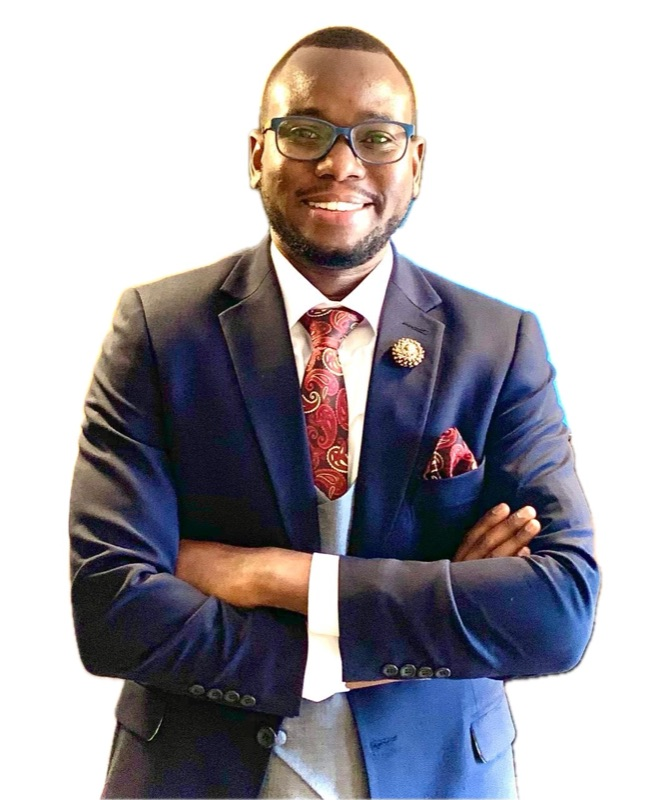
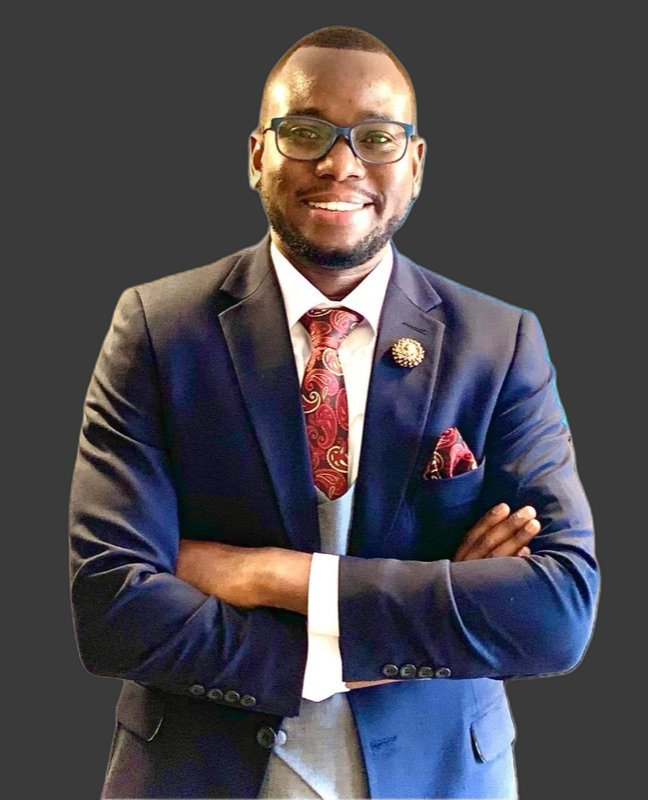
feat: Remove 2 hero clips, unify team photo backgrounds, add horizontal timeline
- Remove chris-philomera and rayner-racheal clips from hero carousel (3 clips remain)
- Replace light backgrounds on Philip, Benjamin, Lamuel headshots with dark charcoal
  to match Lilian and Adonia's professional studio look (AI background removal via rembg)
- Convert "How We Work" bullets into horizontal timeline with connecting line, animated
  nodes, content cards, and chevron arrows (desktop); vertical timeline on mobile

diff --git a/src/app/about/page.tsx b/src/app/about/page.tsx
@@ -321,10 +321,10 @@ export default function AboutPage() {
         </div>
       </section>
 
-      {/* How We Work Section */}
-      <section className="py-20 md:py-28 bg-white">
+      {/* How We Work — Horizontal Timeline */}
+      <section className="py-20 md:py-28 bg-white overflow-hidden">
         <div className="mx-auto max-w-7xl px-4 sm:px-6 lg:px-8">
-          <div className="text-center mb-14">
+          <div className="text-center mb-16">
             <span className="inline-block text-accent-dark font-heading text-sm font-semibold tracking-widest uppercase mb-3">
               The Recipe for Our Charm
             </span>
@@ -336,25 +336,70 @@ export default function AboutPage() {
               executed to perfection.
             </p>
           </div>
-          <div className="grid grid-cols-1 md:grid-cols-5 gap-6 lg:gap-4">
-            {processSteps.map((item, index) => (
-              <div key={item.step} className="relative text-center group">
-                {/* Step number circle */}
-                <div className="mx-auto mb-4 flex h-14 w-14 items-center justify-center rounded-full bg-accent-dark text-white font-heading text-lg font-bold shadow-md group-hover:scale-110 transition-transform duration-300">
-                  {item.step}
+
+          {/* Desktop horizontal timeline */}
+          <div className="hidden md:block relative">
+            {/* Continuous connecting line */}
+            <div className="absolute top-8 left-[10%] right-[10%] h-px bg-gradient-to-r from-accent/0 via-accent/40 to-accent/0" />
+
+            <div className="grid grid-cols-5 gap-4 lg:gap-6">
+              {processSteps.map((item, index) => (
+                <div key={item.step} className="relative text-center group">
+                  {/* Timeline node */}
+                  <div className="relative mx-auto mb-8">
+                    {/* Outer ring pulse on hover */}
+                    <div className="absolute inset-0 mx-auto h-16 w-16 rounded-full bg-accent/20 group-hover:scale-150 group-hover:opacity-0 transition-all duration-700" />
+                    {/* Step circle */}
+                    <div className="relative mx-auto flex h-16 w-16 items-center justify-center rounded-full bg-accent-dark text-white font-heading text-lg font-bold shadow-lg group-hover:bg-primary transition-colors duration-300 ring-4 ring-white">
+                      {item.step}
+                    </div>
+                  </div>
+                  {/* Content card */}
+                  <div className="rounded-xl bg-cream p-5 group-hover:bg-cream-dark group-hover:shadow-md transition-all duration-300">
+                    <h3 className="font-heading text-base font-bold text-dark mb-2">
+                      {item.title}
+                    </h3>
+                    <p className="text-muted text-sm leading-relaxed">
+                      {item.description}
+                    </p>
+                  </div>
+                  {/* Decorative arrow between steps */}
+                  {index < processSteps.length - 1 && (
+                    <div className="absolute top-[30px] right-0 translate-x-1/2 z-10 text-accent/40">
+                      <svg width="12" height="12" viewBox="0 0 12 12" fill="currentColor" aria-hidden="true">
+                        <path d="M2 1l5 5-5 5" stroke="currentColor" strokeWidth="2" fill="none" strokeLinecap="round" strokeLinejoin="round" />
+                      </svg>
+                    </div>
+                  )}
                 </div>
-                {/* Connector line (hidden on last item and mobile) */}
-                {index < processSteps.length - 1 && (
-                  <div className="hidden md:block absolute top-7 left-[calc(50%+28px)] w-[calc(100%-56px)] h-px bg-accent/30" />
-                )}
-                <h3 className="font-heading text-base font-bold text-dark mb-2">
-                  {item.title}
-                </h3>
-                <p className="text-muted text-sm leading-relaxed">
-                  {item.description}
-                </p>
-              </div>
-            ))}
+              ))}
+            </div>
+          </div>
+
+          {/* Mobile vertical timeline */}
+          <div className="md:hidden relative pl-8">
+            {/* Vertical line */}
+            <div className="absolute left-[15px] top-0 bottom-0 w-px bg-gradient-to-b from-accent/40 via-accent/20 to-accent/40" />
+
+            <div className="space-y-10">
+              {processSteps.map((item) => (
+                <div key={item.step} className="relative">
+                  {/* Timeline dot */}
+                  <div className="absolute -left-8 top-0 flex h-8 w-8 items-center justify-center rounded-full bg-accent-dark text-white font-heading text-xs font-bold shadow-md ring-4 ring-white">
+                    {item.step}
+                  </div>
+                  {/* Content */}
+                  <div className="rounded-xl bg-cream p-5">
+                    <h3 className="font-heading text-base font-bold text-dark mb-2">
+                      {item.title}
+                    </h3>
+                    <p className="text-muted text-sm leading-relaxed">
+                      {item.description}
+                    </p>
+                  </div>
+                </div>
+              ))}
+            </div>
           </div>
         </div>
       </section>

diff --git a/src/app/page.tsx b/src/app/page.tsx
@@ -24,8 +24,6 @@ export default function Home() {
             "https://6jblcdd6pq0suc42.public.blob.vercel-storage.com/videos/hero-clips/clip-allan-pauline-1z6j4pUI2pONw0zp6DePgi7dxlmVgD.mp4",
             "https://6jblcdd6pq0suc42.public.blob.vercel-storage.com/videos/hero-clips/clip-david-michelle-GP83vWF5U9gnpiz2Pa5AAVb0GT3qhR.mp4",
             "https://6jblcdd6pq0suc42.public.blob.vercel-storage.com/videos/hero-clips/clip-lornas-kuhingira-2AliKKXbOCPCopwOviA5iPTUT6X8AM.mp4",
-            "https://6jblcdd6pq0suc42.public.blob.vercel-storage.com/videos/hero-clips/clip-chris-philomera-KW11eHp9SdxCA8jMjDZuCM1J0I79fk.mp4",
-            "https://6jblcdd6pq0suc42.public.blob.vercel-storage.com/videos/hero-clips/clip-rayner-racheal-VY5pnoTXq1G5zHObjMehync7HP1tdC.mp4",
           ]}
         />
         {/* Fallback static image for browsers that don't support video */}
